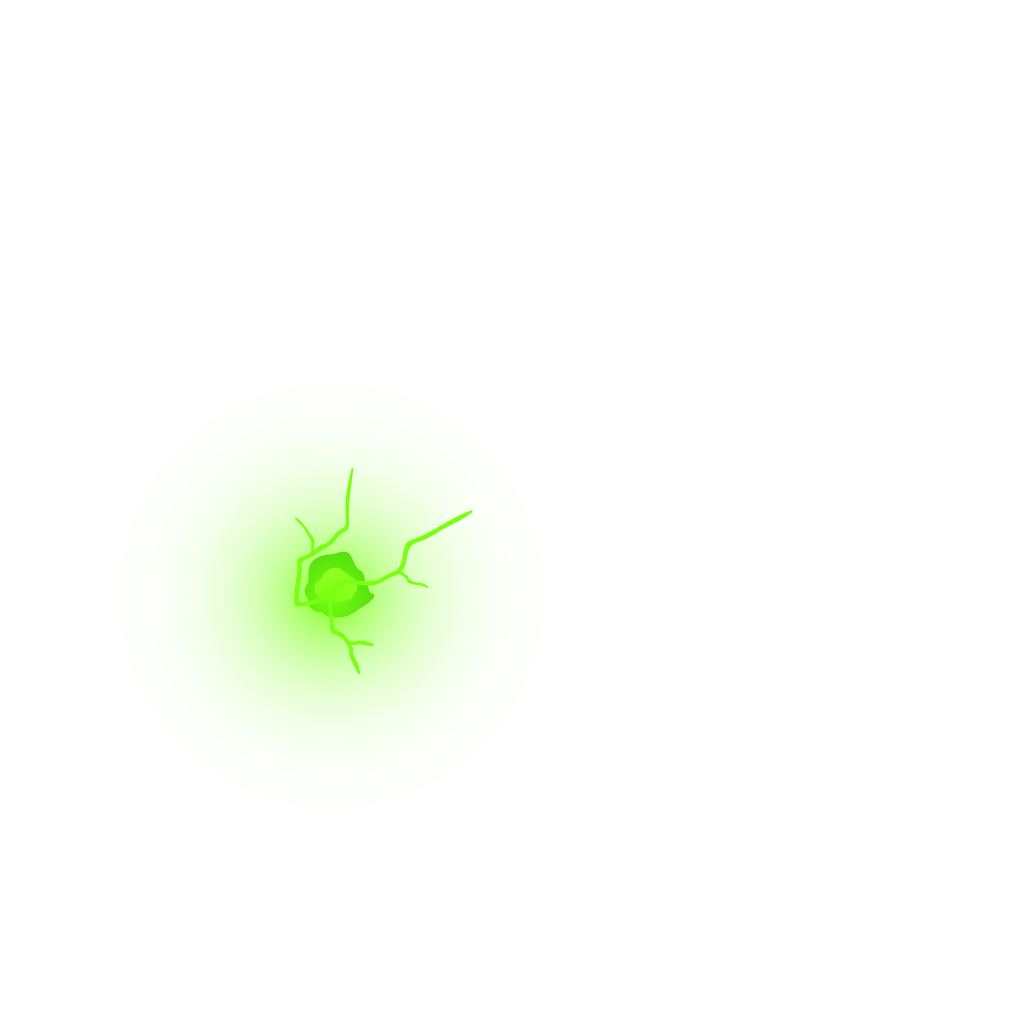
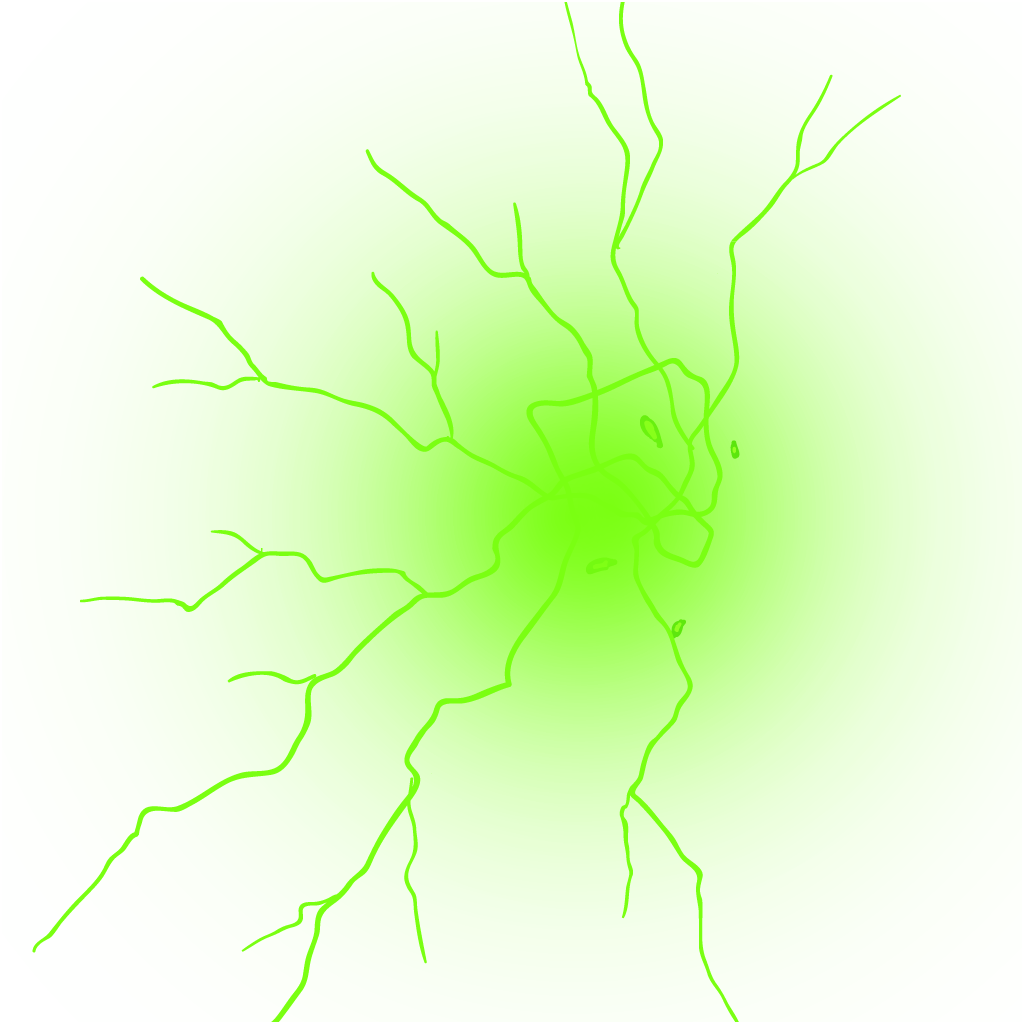
Hacky shot animations 'working'

diff --git a/core/src/main/kotlin/org/mackclan/yorg/systems/ProjectileAnimation.kt b/core/src/main/kotlin/org/mackclan/yorg/systems/ProjectileAnimation.kt
@@ -1,5 +1,6 @@
 package org.mackclan.yorg.systems
 
+import kotlin.math.max
 import com.badlogic.ashley.core.*
 import com.badlogic.ashley.utils.ImmutableArray
 import com.badlogic.gdx.graphics.g2d.Animation
@@ -12,6 +13,7 @@ import org.mackclan.yorg.components.GameState
 import org.mackclan.yorg.components.Position
 import org.mackclan.yorg.components.Target
 import org.mackclan.yorg.components.Velocity
+import org.mackclan.yorg.components.Animations
 
 class ProjectileAnimation : EntitySystem() {
     private lateinit var projectiles: ImmutableArray<Entity>
@@ -20,6 +22,7 @@ class ProjectileAnimation : EntitySystem() {
     private val animationComponentMap = ComponentMapper.getFor(AnimationComponent::class.java)
     private val positionMap = ComponentMapper.getFor(Position::class.java)
     private val velocityMap = ComponentMapper.getFor(Velocity::class.java)
+    private val targetMap = ComponentMapper.getFor(Target::class.java)
     private val batch by lazy { SpriteBatch() }
     private val screenViewport by lazy { ScreenViewport() }
 
@@ -27,7 +30,11 @@ class ProjectileAnimation : EntitySystem() {
 
     init {
         var shotAtlas: TextureAtlas = TextureAtlas("animations/shot/shot.atlas")
-        animations = listOf(Animation<TextureRegion>(0.1667f, shotAtlas.findRegions("shot"), Animation.PlayMode.LOOP))
+        animations = listOf(
+            Animation<TextureRegion>(0.100f, shotAtlas.findRegions("launch"), Animation.PlayMode.NORMAL),
+            Animation<TextureRegion>(0.100f, shotAtlas.findRegions("travel"), Animation.PlayMode.LOOP),
+            Animation<TextureRegion>(0.100f, shotAtlas.findRegions("collide"), Animation.PlayMode.NORMAL)
+        )
     }
 
     override fun addedToEngine(engine: Engine) {
@@ -36,7 +43,6 @@ class ProjectileAnimation : EntitySystem() {
                         Family.all(Position::class.java, Velocity::class.java, Target::class.java)
                                 .get()
                 )
-        // TODO: Target isn't really used yet, add a poof when it hits target later
         val gameState = engine.getEntitiesFor(Family.all(GameState::class.java).get()).first()
         state = gameState.components.first() as GameState
     }
@@ -47,15 +53,48 @@ class ProjectileAnimation : EntitySystem() {
         batch.begin()
 
         for (projectile in projectiles) {
+            val animation = animationComponentMap.get(projectile)
+            if (animation.time < 0f){
+                animation.time += deltaTime
+                continue
+            }
             val position = positionMap.get(projectile)
             val velocity = velocityMap.get(projectile)
-            position.position.add(velocity.direction.scl(velocity.speed))
-            val animation = animationComponentMap.get(projectile)
-            val activeAnimation = animations[0]
+            val target = targetMap.get(projectile)
+            val nextPos = position.position.cpy().add(velocity.direction.cpy().scl(velocity.speed))
+
+
+            if (nextPos.dst(target.target) <= position.position.dst(target.target)) {
+                position.position = nextPos.cpy()
+            } else {
+                position.position = target.target.cpy()
+                velocity.speed = 0f
+                animation.activeAnimation = Animations.collide
+                animation.time = 0f
+            }
+
+            var animatedPos = position.position.cpy()
+
+            val activeAnimation = animation.activeAnimation
+            if (activeAnimation == Animations.launch){
+                if(animations[activeAnimation.ordinal - 4].isAnimationFinished(animation.time)){
+                    animation.activeAnimation = Animations.travel
+                    animation.time = 0f
+                    velocity.speed = 0.1f
+                } else {
+                    animatedPos.add(0.4f, 0.2f)
+                }
+            } else if(activeAnimation == Animations.travel){
+                val xDrift = max(0f, 0.4f - animation.time * 0.1f)
+                val yDrift = max(0f, 0.2f - animation.time * 0.1f)
+                animatedPos.add(xDrift, yDrift)
+            } else if (activeAnimation == Animations.collide && animations[activeAnimation.ordinal -4].isAnimationFinished(animation.time)){
+                engine.removeEntity(projectile)
+            }
             batch.draw(
-                    activeAnimation.getKeyFrame(animation.time, true),
-                    position.position.x + 1,
-                    position.position.y,
+                    animations[activeAnimation.ordinal - 4].getKeyFrame(animation.time, true),
+                    animatedPos.x + 1,
+                    animatedPos.y,
                     -1f,
                     1f
             )

diff --git a/core/src/main/kotlin/org/mackclan/yorg/systems/UnitAnimation.kt b/core/src/main/kotlin/org/mackclan/yorg/systems/UnitAnimation.kt
@@ -14,7 +14,6 @@ import org.mackclan.yorg.components.Controlled
 import org.mackclan.yorg.components.Directions
 import org.mackclan.yorg.components.GameState
 import org.mackclan.yorg.components.Position
-import org.mackclan.yorg.components.Target
 import org.mackclan.yorg.components.Velocity
 
 class UnitAnimation : EntitySystem() {
@@ -48,7 +47,7 @@ class UnitAnimation : EntitySystem() {
                                 Animation.PlayMode.NORMAL
                         ),
                         Animation<TextureRegion>(
-                                0.0417f,
+                                0.0834f,
                                 robotAtlas.findRegions("fire"),
                                 Animation.PlayMode.NORMAL
                         ),

diff --git a/core/src/main/kotlin/org/mackclan/yorg/entities/Projectile.kt b/core/src/main/kotlin/org/mackclan/yorg/entities/Projectile.kt
@@ -6,12 +6,15 @@ import org.mackclan.yorg.components.AnimationComponent
 import org.mackclan.yorg.components.Position
 import org.mackclan.yorg.components.Velocity
 import org.mackclan.yorg.components.Target
+import org.mackclan.yorg.components.Animations
 
 fun createProjectile (position : Vector2, target: Vector2): Entity {
     val entity = Entity()
-    entity.add(AnimationComponent(0f))
+    val animation = AnimationComponent(-0.7f)
+    animation.activeAnimation = Animations.launch
+    entity.add(animation)
     entity.add(Position(position.x, position.y))
     entity.add(Target(target))
-    entity.add(Velocity(0.8f, target.sub(position).nor()))
+    entity.add(Velocity(0f, target.cpy().sub(position).nor()))
     return entity
 }

diff --git a/core/src/main/kotlin/org/mackclan/yorg/components/AnimationComponent.kt b/core/src/main/kotlin/org/mackclan/yorg/components/AnimationComponent.kt
@@ -12,6 +12,9 @@ enum class Animations {
     run,
     turn_to_run,
     fire,
+    launch,
+    travel,
+    collide,
 }
 
 enum class Directions {
